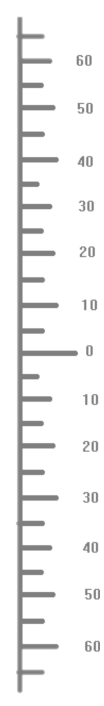
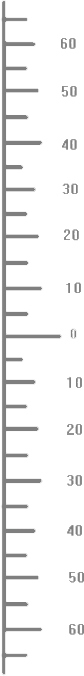
new pictures and clock
更改了圖片，感謝紅茶牛奶幫我去背
對了我的時鐘也稍微改了一點點
字體加大且致中

diff --git a/web/templates/index.html b/web/templates/index.html
@@ -40,10 +40,11 @@
 
     <div class="bar" id="digital_data">
         <div id = "clock"></div>
-        <div id="images_container" class="images-container">
+
+        <div id="system_container">
             <img src="{{ url_for('static', filename='imgs/speed.png') }}" alt="speed picture" class="AOAsystem item"
                 id="speed" style="
-                    width: 25%;
+                    max-width:15%;
                 " />
             <img src="{{ url_for('static', filename='imgs/AOA1.png') }}" alt="roll picture" class="AOAsystem center item"
                 id="roll" style="
@@ -52,7 +53,7 @@
                 " />
             <img src="{{ url_for('static', filename='imgs/depression.png') }}" alt="depression picture"
                 class="AOAsystem item" id="depression" style="
-                    width: 30%;
+                    max-width: 23%;
                 " />
         </div>
         <div class = "bar" id = course>

diff --git a/test.css b/test.css
@@ -1,0 +1,40 @@
+.boton-elegante {
+    padding: 15px 30px;
+    border: 2px solid #2c2c2c;
+    background-color: #1a1a1a;
+    color: #ffffff;
+    font-size: 1.2rem;
+    cursor: pointer;
+    border-radius: 30px;
+    transition: all 0.4s ease;
+    outline: none;
+    position: relative;
+    overflow: hidden;
+    font-weight: bold;
+  }
+  
+  .boton-elegante::after {
+    content: "";
+    position: absolute;
+    top: 0;
+    left: 0;
+    width: 100%;
+    height: 100%;
+    background: radial-gradient(
+      circle,
+      rgba(255, 255, 255, 0.25) 0%,
+      rgba(255, 255, 255, 0) 70%
+    );
+    transform: scale(0);
+    transition: transform 0.5s ease;
+  }
+  
+  .boton-elegante:hover::after {
+    transform: scale(4);
+  }
+  
+  .boton-elegante:hover {
+    border-color: #666666;
+    background: #292929;
+  }
+  

diff --git a/web/static/style.css b/web/static/style.css
@@ -69,23 +69,31 @@ html {
 /* 時鐘 */
 #clock{
   display: flex;
-  width: 25%;
+  width: 20%;
   height: 80%;
   background-color:rgb(103, 102, 102);
   border-radius: 50px;
+  font-size: 24px;
+  font-family: Arial, sans-serif;
+  color: #333;
+  /* align-items: center; */
+  justify-content: center;
+  font-size: 500%;
+  padding: 20px;
 }
 
 /* HUD */
-.images-container {
+#system_container {
   display: flex;
   width: 20%;
   height: 100%;
   align-items: center;
+  object-fit: cover;
 }
 
 .AOAsystem {
-  max-width: 100%;
   max-height: 75%;
+  max-width: 20%;
   object-fit: cover;
 }
 
@@ -108,7 +116,7 @@ html {
   border-radius: 50px;
   transform: scale(0.975);
   display: flex;
-  width: 25%;
+  width: 20%;
   height: 80%;
   flex-direction: column;
   object-fit: contain;

diff --git a/test.html b/test.html
@@ -1,4 +1,4 @@
-<!DOCTYPE html>
+<!-- <!DOCTYPE html>
 <html lang="en">
 <head>
 <meta charset="UTF-8">
@@ -28,5 +28,20 @@
         });
     });
   </script>
+</body>
+</html> -->
+
+<!DOCTYPE html>
+<html lang="en">
+<head>
+  <meta charset="UTF-8">
+  <meta name="viewport" content="width=device-width, initial-scale=1.0">
+  <title>Document</title>
+  <link href="test.css" rel="stylesheet" type="text/css" />
+</head>
+<body style="background-color: black;">
+
+  <button class="boton-elegante">Explore</button>
+
 </body>
 </html>
